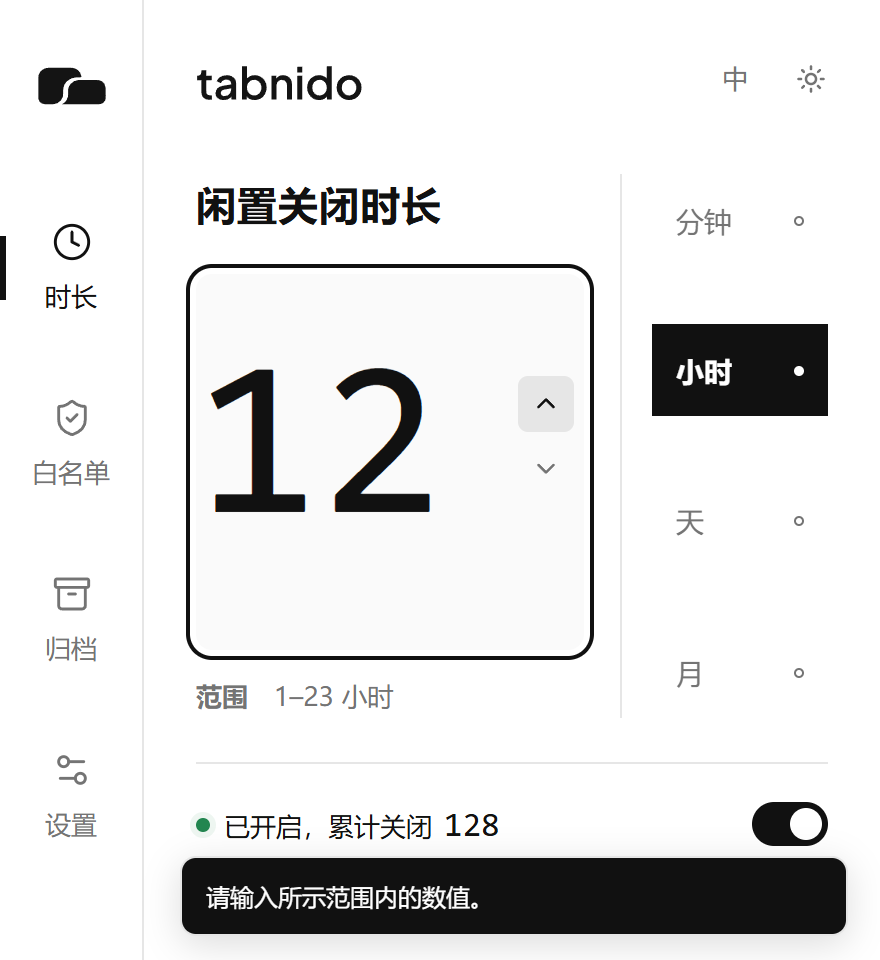
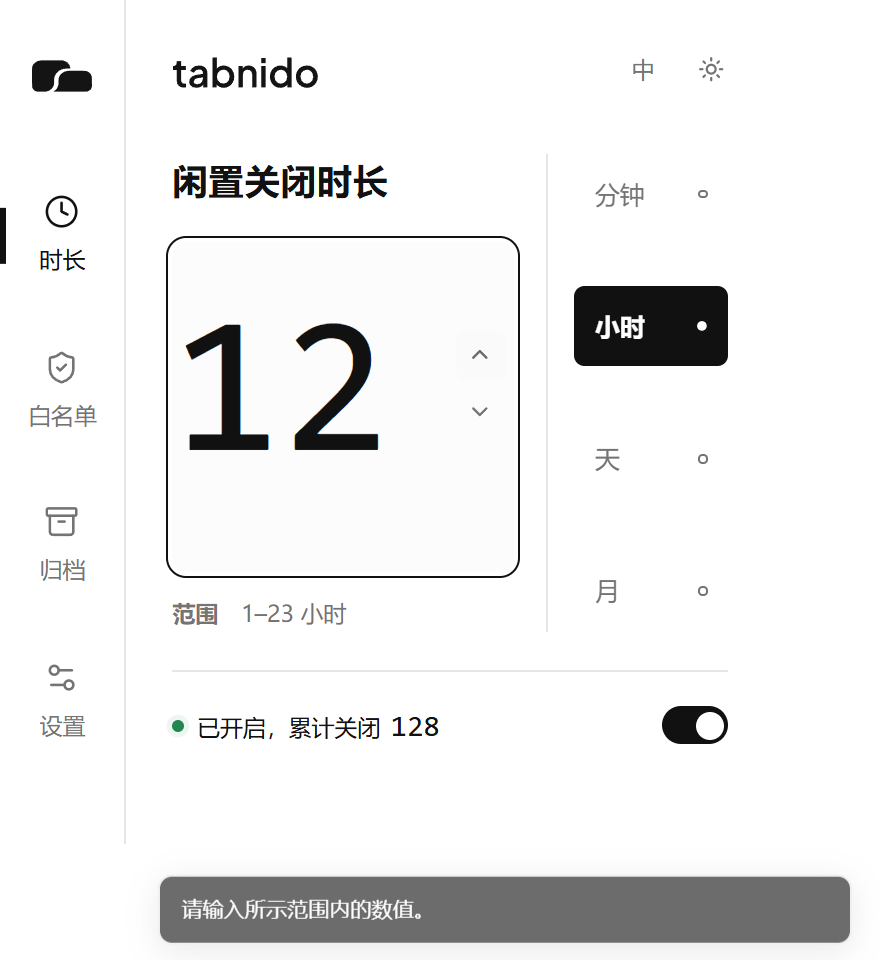
feat(preview): add zero-dependency web preview server and runtime fallback

diff --git a/preview.html b/preview.html
@@ -1,0 +1,203 @@
+<!doctype html>
+<html lang="zh-CN">
+<head>
+  <meta charset="UTF-8" />
+  <meta name="viewport" content="width=device-width, initial-scale=1.0" />
+  <title>Tabnido · 界面与动效预览</title>
+  <style>
+    body {
+      margin: 0;
+      padding: 32px 20px;
+      background: #f0f2f5;
+      font-family: -apple-system, BlinkMacSystemFont, "Segoe UI", Roboto, sans-serif;
+      display: flex;
+      flex-direction: column;
+      align-items: center;
+      min-height: 100vh;
+      box-sizing: border-box;
+    }
+    .preview-header {
+      margin-bottom: 24px;
+      text-align: center;
+    }
+    .preview-header h1 {
+      margin: 0 0 8px;
+      font-size: 22px;
+      font-weight: 700;
+      color: #111;
+    }
+    .preview-header p {
+      margin: 0;
+      font-size: 14px;
+      color: #666;
+    }
+    .browser-bar {
+      width: 420px;
+      background: #ffffff;
+      border: 1px solid #e0e0e0;
+      border-radius: 12px 12px 0 0;
+      padding: 10px 16px;
+      display: flex;
+      align-items: center;
+      justify-content: space-between;
+      box-shadow: 0 4px 16px rgba(0, 0, 0, 0.04);
+      box-sizing: border-box;
+    }
+    .browser-title {
+      font-size: 12px;
+      font-weight: 600;
+      color: #888;
+      display: flex;
+      align-items: center;
+      gap: 6px;
+    }
+    .browser-toolbar-action {
+      display: flex;
+      align-items: center;
+      gap: 8px;
+      font-size: 12px;
+      color: #444;
+    }
+    .action-icon-wrapper {
+      position: relative;
+      display: inline-flex;
+      align-items: center;
+      justify-content: center;
+      width: 32px;
+      height: 32px;
+      border-radius: 6px;
+      background: #f4f4f4;
+    }
+    .action-badge {
+      position: absolute;
+      right: -4px;
+      bottom: -4px;
+      height: 16px;
+      padding: 0 4px;
+      min-width: 14px;
+      border-radius: 8px;
+      background: #747474;
+      color: #fff;
+      font-size: 10px;
+      font-weight: 700;
+      line-height: 16px;
+      text-align: center;
+      font-family: Consolas, monospace;
+      box-shadow: 0 1px 3px rgba(0,0,0,0.2);
+      transition: background-color 0.2s, color 0.2s;
+    }
+    .popup-frame-wrapper {
+      background: #ffffff;
+      border: 1px solid #e0e0e0;
+      border-top: none;
+      border-radius: 0 0 12px 12px;
+      box-shadow: 0 12px 32px rgba(0, 0, 0, 0.08);
+      overflow: hidden;
+      width: 420px;
+      display: flex;
+      justify-content: center;
+    }
+    iframe {
+      border: 0;
+      width: 388px;
+      height: 423px;
+      display: block;
+      background: #fff;
+    }
+    .tips-card {
+      margin-top: 24px;
+      max-width: 420px;
+      background: #fff;
+      border: 1px solid #e4e7eb;
+      border-radius: 10px;
+      padding: 16px 20px;
+      font-size: 13px;
+      line-height: 1.7;
+      color: #555;
+      box-sizing: border-box;
+    }
+    .tips-card strong {
+      color: #111;
+    }
+  </style>
+</head>
+<body>
+  <div class="preview-header">
+    <h1>Tabnido 本地独立交互预览</h1>
+    <p>包含：0.88 等比缩小、克制微动效、1~60 分钟自动关闭、工具栏角标联动</p>
+  </div>
+
+  <div class="browser-bar">
+    <div class="browser-title">
+      <svg width="14" height="14" viewBox="0 0 24 24" fill="none" stroke="currentColor" stroke-width="2"><circle cx="12" cy="12" r="10"/><path d="M12 2a14.5 14.5 0 0 0 0 20 14.5 14.5 0 0 0 0-20"/><path d="M2 12h20"/></svg>
+      <span>浏览器工具栏状态模拟</span>
+    </div>
+    <div class="browser-toolbar-action">
+      <span>插件图标角标：</span>
+      <div class="action-icon-wrapper">
+        <svg width="18" height="18" viewBox="0 0 315 189" fill="#111"><path d="M 459.231 142.563 C 486.672 140.447 536.258 141.916 564.98 141.916 L 768.55 141.932 L 933.537 141.903 C 969.697 141.9 1008.25 140.121 1043.91 145.384 C 1146.02 160.452 1228.68 237.284 1247.34 339.361 C 1256.56 374.725 1242.2 374.236 1212.88 373.177 C 1117.33 369.728 1028.13 381.252 946.134 435.763 C 867.012 488.366 812.722 577.007 810.619 673.546 C 809.548 722.652 814.612 777.148 804.896 825.236 C 794.962 868.44 774.233 908.419 744.648 941.435 C 703.059 987.938 641.311 1021.54 578.729 1023.43 C 541.846 1023.88 504.932 1024.56 467.999 1023.95 C 426.992 1022.45 383.753 1027.46 343.322 1019.46 C 270.039 1004.95 212.539 945.057 211.136 868.721 C 210.494 833.791 210.723 799.571 210.727 764.964 L 210.751 570.775 L 210.73 441.153 C 210.691 407.789 208.949 365.564 215.482 333.561 C 223.694 293.149 242.733 255.729 270.563 225.299 C 319.57 171.3 387.53 145.983 459.231 142.563 z"/></svg>
+        <span class="action-badge" id="badgeIndicator">1h</span>
+      </div>
+    </div>
+  </div>
+
+  <div class="popup-frame-wrapper">
+    <iframe id="previewFrame" src="./dist/popup.html"></iframe>
+  </div>
+
+  <div class="tips-card">
+    <strong>💡 使用提示：</strong><br />
+    1. 此页面完全不需要启动任何后端或 Node 服务，双击即可直接预览。<br />
+    2. 下方弹窗为真实构建出的 <code>dist/popup.html</code>，已等比缩放为 388×423px。<br />
+    3. 点击下方弹窗内的开关（开启/暂停）或修改时长单位，上方工具栏图标角标会即时联动（显示 <code>OFF</code> 或 <code>15m</code>、<code>1h</code>、<code>1mo</code>）。
+  </div>
+
+  <script>
+    // 在 iframe 加载前注入 Chrome Mock 运行环境，完全无需后台插件进程
+    const frame = document.getElementById('previewFrame');
+    const badge = document.getElementById('badgeIndicator');
+
+    let state = {
+      ui_language: 'zh-CN',
+      ui_theme: 'light',
+      inactive_tabs_settings: { value: 1, unit: 'hours' },
+      inactive_tabs_threshold_disabled: false,
+      total_auto_closed_tabs_count: 128,
+      whitelisted_domains: [
+        { id: '1', domain: 'notion.so', matchMode: 'mode_subdomain' },
+        { id: '2', domain: 'mail.google.com', matchMode: 'mode_exact' }
+      ],
+      user_settings: { excludePinnedTabs: true, excludeAudioTabs: true, showArchiveOverlay: true },
+      archived_tabs: [
+        { id: 'a', title: 'React 官方文档 · 组件生命周期', url: 'https://react.dev', closedAt: Date.now() - 600000 },
+        { id: 'b', title: 'Figma 设计系统规范', url: 'https://figma.com', closedAt: Date.now() - 1200000 }
+      ]
+    };
+
+    function updateBadgeView(text, color) {
+      if (!badge) return;
+      badge.textContent = text;
+      badge.style.backgroundColor = color || '#747474';
+    }
+
+    window.syncFromChild = function(type, body) {
+      if (type === 'saveInactiveTabsSettings') {
+        state.inactive_tabs_settings = body;
+        if (!state.inactive_tabs_threshold_disabled) {
+          const unitMap = { minutes: 'm', hours: 'h', days: 'd', months: 'mo' };
+          updateBadgeView(body.value + (unitMap[body.unit] || 'm'), '#111111');
+        }
+      } else if (type === 'saveInactivityDisabledState') {
+        state.inactive_tabs_threshold_disabled = body;
+        if (body) {
+          updateBadgeView('OFF', '#747474');
+        } else {
+          const s = state.inactive_tabs_settings;
+          const unitMap = { minutes: 'm', hours: 'h', days: 'd', months: 'mo' };
+          updateBadgeView(s.value + (unitMap[s.unit] || 'm'), '#111111');
+        }
+      }
+    };
+  </script>
+</body>
+</html>

diff --git a/src/popup/preview-fallback.ts b/src/popup/preview-fallback.ts
@@ -1,0 +1,94 @@
+// Fallback environment mock for previewing outside of an installed Chrome extension
+if (typeof window !== 'undefined' && (!window.chrome || !window.chrome.runtime?.id)) {
+  const store: Record<string, any> = {
+    ui_language: 'zh-CN',
+    ui_theme: 'light',
+    inactive_tabs_settings: { value: 1, unit: 'hours' },
+    inactive_tabs_threshold_disabled: false,
+    total_auto_closed_tabs_count: 128,
+    whitelisted_domains: [
+      { id: '1', domain: 'notion.so', matchMode: 'mode_subdomain' },
+      { id: '2', domain: 'mail.google.com', matchMode: 'mode_exact' },
+      { id: '3', domain: '*.google.com', matchMode: 'mode_wildcard' },
+    ],
+    user_settings: { excludePinnedTabs: true, excludeAudioTabs: true, showArchiveOverlay: true },
+    archived_tabs: [
+      { id: '1', title: 'React 官方文档 · 组件生命周期与交互', url: 'https://react.dev/learn', closedAt: Date.now() - 300000 },
+      { id: '2', title: 'Figma 界面设计系统规范', url: 'https://figma.com/design', closedAt: Date.now() - 900000 },
+      { id: '3', title: 'GitHub - Tabnido 扩展仓库', url: 'https://github.com', closedAt: Date.now() - 1800000 },
+    ],
+  };
+
+  const listeners = new Set<(changes: any, area: string) => void>();
+
+  (window as any).chrome = {
+    i18n: { getUILanguage: () => 'zh-CN' },
+    storage: {
+      local: {
+        get: async (keys: string | string[]) => {
+          const list = Array.isArray(keys) ? keys : typeof keys === 'string' ? [keys] : Object.keys(store);
+          const res: any = {};
+          for (const k of list) res[k] = store[k];
+          return res;
+        },
+        set: async (obj: any) => {
+          const changes: any = {};
+          for (const [k, v] of Object.entries(obj)) {
+            changes[k] = { oldValue: store[k], newValue: v };
+            store[k] = v;
+          }
+          listeners.forEach((fn) => fn(changes, 'local'));
+        },
+      },
+      onChanged: {
+        addListener: (fn: any) => listeners.add(fn),
+        removeListener: (fn: any) => listeners.delete(fn),
+      },
+    },
+    runtime: {
+      sendMessage: async ({ type, body }: any) => {
+        try {
+          if (typeof (window.parent as any)?.syncFromChild === 'function') {
+            (window.parent as any).syncFromChild(type, body);
+          }
+        } catch {}
+
+        if (type === 'getInactiveTabsSettings') return { ok: true, data: store.inactive_tabs_settings };
+        if (type === 'saveInactiveTabsSettings') {
+          store.inactive_tabs_settings = body;
+          return { ok: true, data: body };
+        }
+        if (type === 'getInactivityDisabledState') return { ok: true, data: store.inactive_tabs_threshold_disabled };
+        if (type === 'saveInactivityDisabledState') {
+          store.inactive_tabs_threshold_disabled = body;
+          return { ok: true, data: body };
+        }
+        if (type === 'getTotalAutoClosedTabsCount') return { ok: true, data: store.total_auto_closed_tabs_count };
+        if (type === 'getWhitelist') return { ok: true, data: store.whitelisted_domains };
+        if (type === 'saveWhitelist') {
+          store.whitelisted_domains = body;
+          return { ok: true, data: body };
+        }
+        if (type === 'getArchivedTabs') return { ok: true, data: store.archived_tabs };
+        if (type === 'getUserSettings') return { ok: true, data: store.user_settings };
+        if (type === 'saveUserSettings') {
+          store.user_settings = body;
+          return { ok: true, data: body };
+        }
+        if (type === 'restoreArchivedTab') {
+          store.archived_tabs = store.archived_tabs.filter((t: any) => t.id !== body.id);
+          return { ok: true, data: null };
+        }
+        return { ok: true, data: null };
+      },
+    },
+    tabs: {
+      query: async () => [{ id: 1, url: 'https://example.com' }],
+      create: async () => {},
+    },
+    action: {
+      setBadgeText: async () => {},
+      setBadgeBackgroundColor: async () => {},
+    },
+  };
+}

diff --git a/src/popup/main.tsx b/src/popup/main.tsx
@@ -1,3 +1,4 @@
+import './preview-fallback';
 import { createRoot } from 'react-dom/client';
 import { App } from './App';
 import './popup.css';

diff --git a/README.md b/README.md
@@ -15,7 +15,9 @@
 
 ## 功能
 
-- 时长：直接输入有效数值后自动保存，上下箭头微调；切换单位会将数值限制在对应范围。范围沿用原规则：15–59 分钟、1–23 小时、1–30 天、1–12 月。
+- 时长：直接输入有效数值后自动保存，上下箭头微调；切换单位会将数值限制在对应范围。范围支持：1–60 分钟、1–23 小时、1–30 天、1–12 月。
+- 浏览器工具栏图标：扩展图标常驻显示 Action Badge 状态，运行监控时显示时长缩写（分钟使用 m，月份使用 mo，如 1m、15m、1h、1mo），暂停状态显示低调灰色 `OFF`。
+- 视觉与微动效：界面整体采用 0.88 比例等比收敛优化，适配高分屏；全站融入成熟、克制且敏捷的轻量物理微交互反馈（100–180ms，支持减弱动效偏好）。
 - 首次打开只展示 1 小时，不会自动开启关闭功能；可用底部开关启用，或修改时长后启用配置。暂停状态在修改时长后保持暂停。
 - 白名单：域名原位编辑，Enter 或离开输入框后保存；Escape 取消未提交编辑；匹配类型选择和删除自动保存。新增空白项在输入有效域名前不会写入。最多 50 条，沿用既有域名规范化及匹配逻辑。
 - 归档：最多 500 条；按时间从新到旧展示，搜索标题或网址，恢复记录；网站图标只显示在标题前。使用 Chrome 本地 favicon 接口，无额外远程图标服务。
